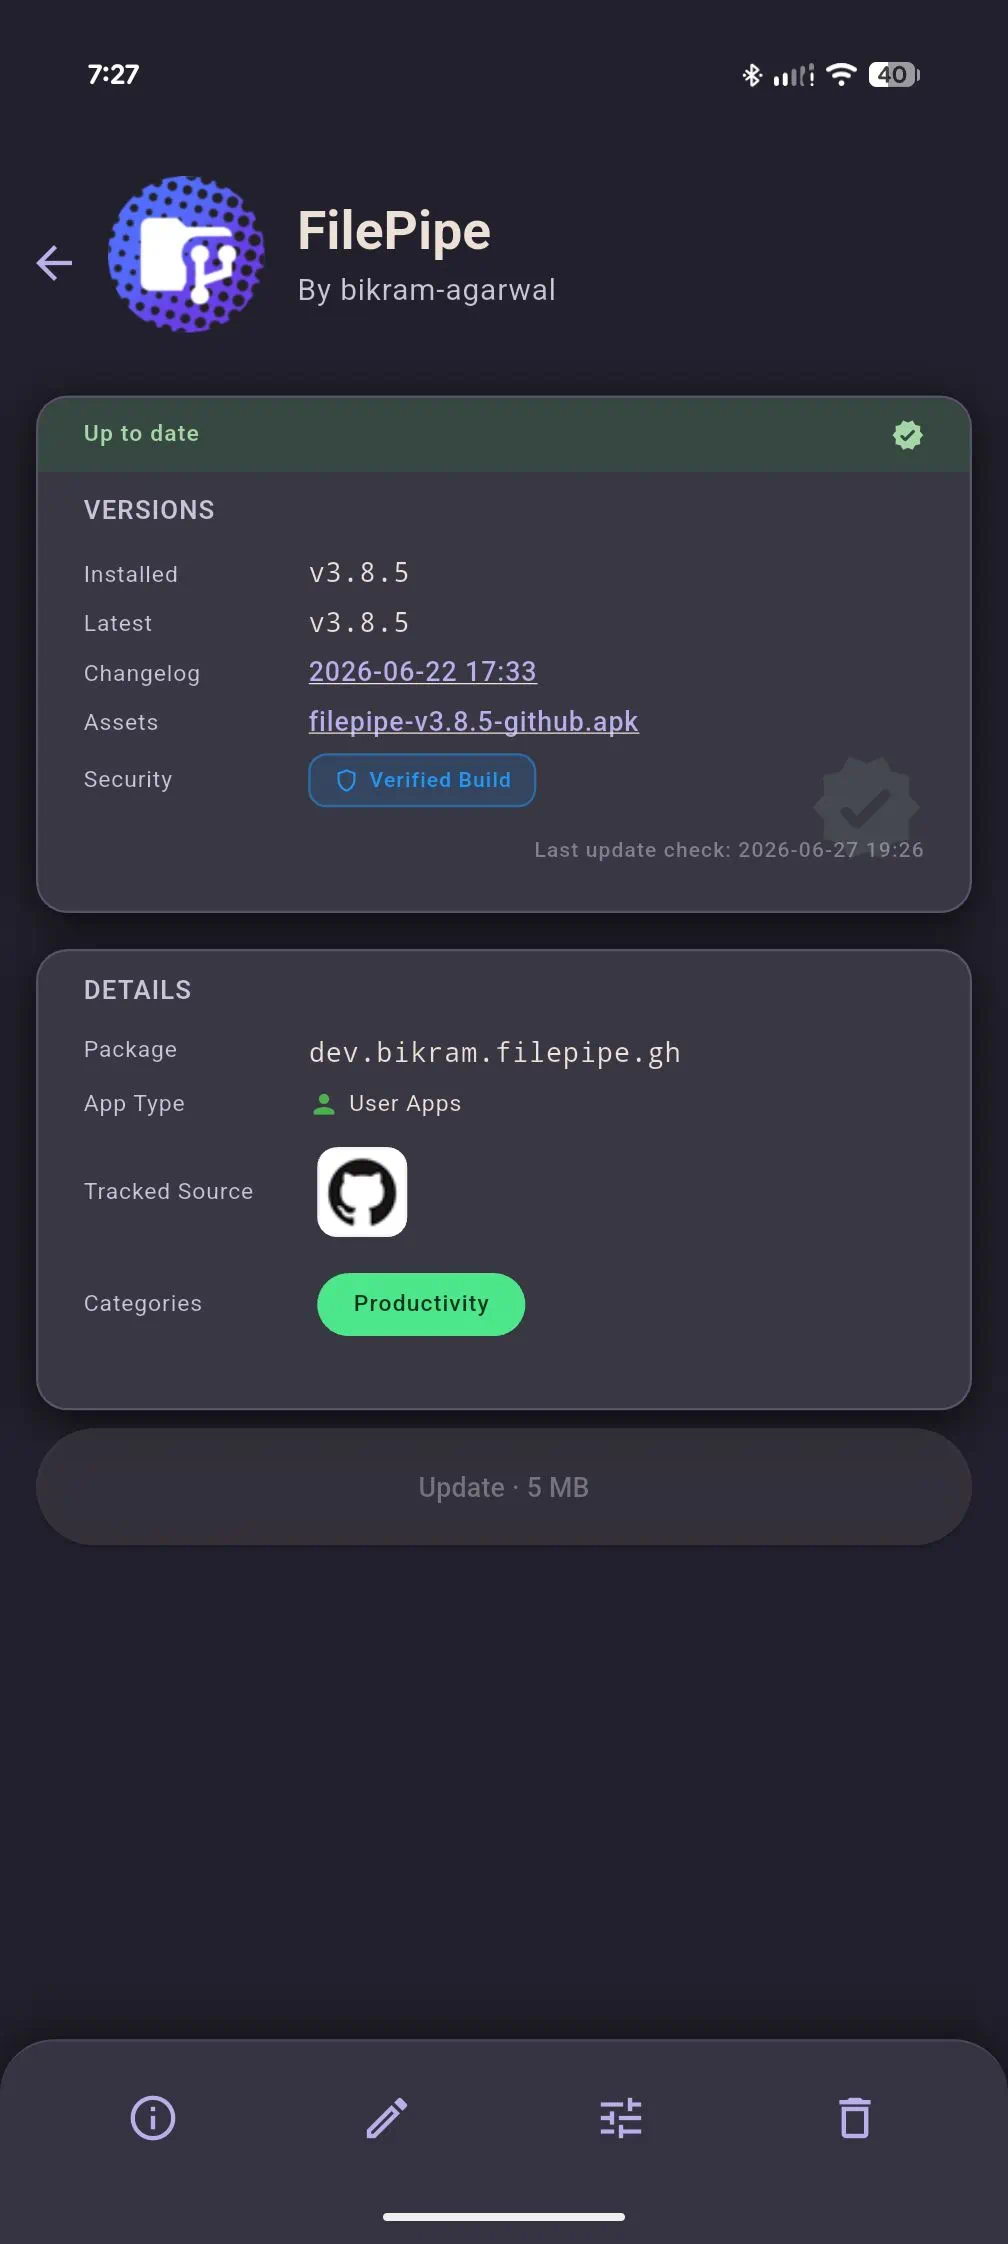
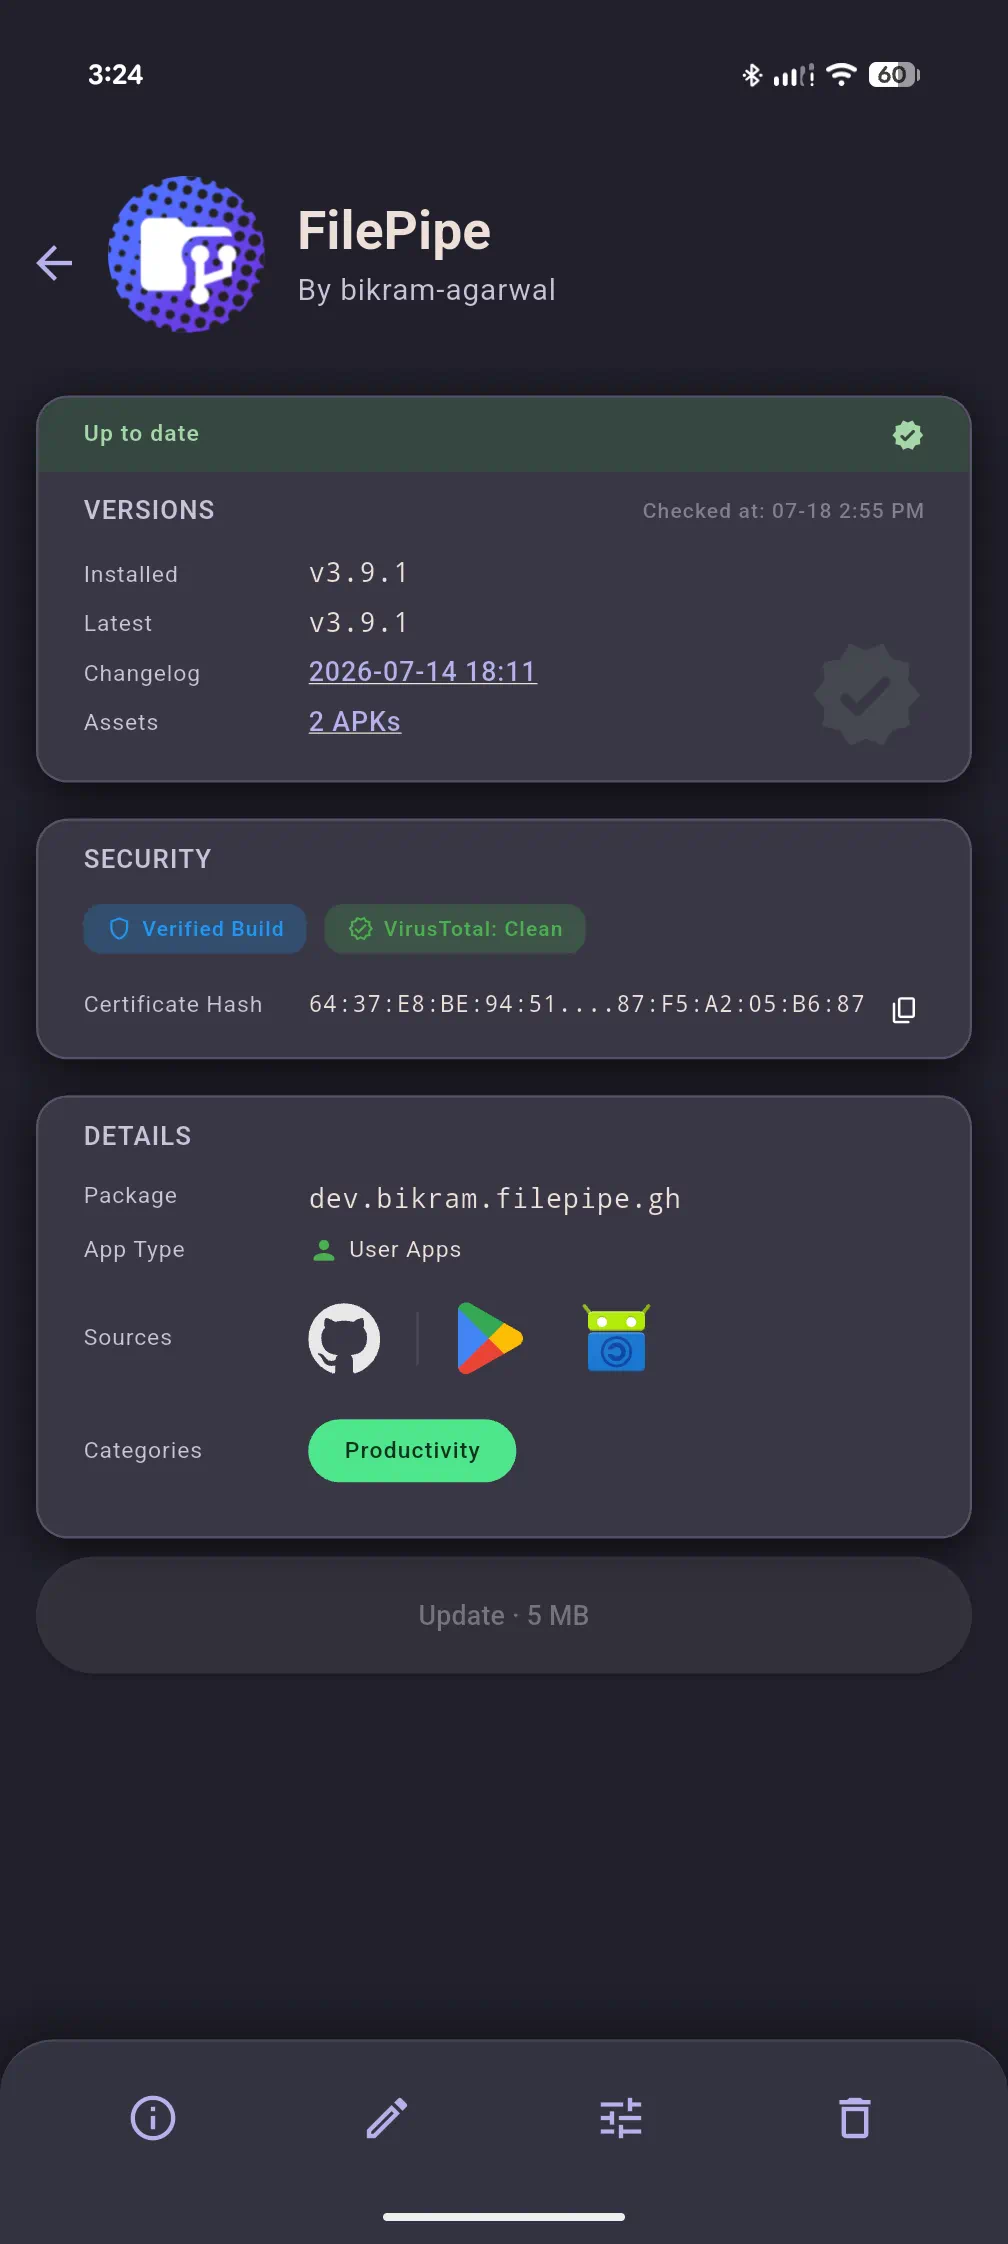
Update app visuals and layout components
- Replaced static Chip widgets with AppSmoothRoundedSurface for improved styling and interaction in CategoryActionChip.
- Enhanced app card layout in AppPage with AppSmoothRoundedSurface to support rounded corners and shadow effects.
- Show version/timestamp in tablet app rows, but in phone landscape
- Updated store and compare screenshots

diff --git a/lib/components/app_smooth_surface.dart b/lib/components/app_smooth_surface.dart
@@ -11,6 +11,8 @@ class AppSmoothRoundedSurface extends StatelessWidget {
     this.borderWidth = 1,
     this.borderRadius = 8,
     this.padding = EdgeInsets.zero,
+    this.boxShadow = const [],
+    this.clipContent = false,
     this.onTap,
     this.tooltip,
   });
@@ -21,33 +23,67 @@ class AppSmoothRoundedSurface extends StatelessWidget {
   final double borderWidth;
   final double borderRadius;
   final EdgeInsetsGeometry padding;
+  final List<BoxShadow> boxShadow;
+
+  /// Clip children to the rounded shape. Only needed when a child paints to the
+  /// edge (e.g. a full-bleed header stripe) and would otherwise poke past the
+  /// corners. Left off by default: the painted fill below already defines a
+  /// smooth corner, and a saveLayer per surface is wasteful for the common case
+  /// (chips, plain cards) — which is also where clipping hurt, see [build].
+  final bool clipContent;
   final VoidCallback? onTap;
   final String? tooltip;
 
   @override
   Widget build(BuildContext context) {
     final BorderRadius radius = BorderRadius.circular(borderRadius);
+    Widget interactive = Material(
+      type: MaterialType.transparency,
+      child: InkWell(
+        customBorder: RoundedRectangleBorder(borderRadius: radius),
+        onTap: onTap,
+        child: Padding(padding: padding, child: child),
+      ),
+    );
+    if (clipContent) {
+      // Deliberately antiAliasWithSaveLayer, NOT Clip.antiAlias: the latter
+      // clips with MSAA coverage that visibly stair-steps on curved corners at
+      // low DPR under Impeller (the jagged-corner bug). saveLayer compositing
+      // keeps the clipped corner analytically anti-aliased.
+      interactive = ClipRRect(
+        borderRadius: radius,
+        clipBehavior: Clip.antiAliasWithSaveLayer,
+        child: interactive,
+      );
+    }
+    // Fill + border are PAINTED with analytic anti-aliasing so the visible
+    // corner is smooth. (Producing the corner via a plain ClipRRect instead —
+    // as an earlier revision did — is exactly what made corners look jagged.)
+    // The fill is painted BEHIND the child and the border ON TOP of it
+    // (foregroundPainter), so a full-bleed child such as a header stripe does
+    // not paint over the border — the border still frames the whole surface.
+    final bool hasBorder =
+        borderColor != null && borderColor != Colors.transparent && borderWidth > 0;
     Widget current = CustomPaint(
-      painter: _SmoothRoundedSurfacePainter(
+      painter: _SmoothRoundedFillPainter(
         backgroundColor: backgroundColor,
-        borderColor: borderColor,
-        borderWidth: borderWidth,
         borderRadius: borderRadius,
       ),
-      child: Material(
-        type: MaterialType.transparency,
-        child: InkWell(
-          customBorder: RoundedRectangleBorder(borderRadius: radius),
-          onTap: onTap,
-          child: Padding(padding: padding, child: child),
-        ),
-      ),
+      foregroundPainter: hasBorder
+          ? _SmoothRoundedBorderPainter(
+              borderColor: borderColor!,
+              borderWidth: borderWidth,
+              borderRadius: borderRadius,
+            )
+          : null,
+      child: interactive,
     );
-    current = ClipRRect(
-      borderRadius: radius,
-      clipBehavior: Clip.antiAlias,
-      child: current,
-    );
+    if (boxShadow.isNotEmpty) {
+      current = DecoratedBox(
+        decoration: BoxDecoration(borderRadius: radius, boxShadow: boxShadow),
+        child: current,
+      );
+    }
     if (tooltip != null && tooltip!.isNotEmpty) {
       current = Tooltip(message: tooltip!, child: current);
     }
@@ -55,16 +91,47 @@ class AppSmoothRoundedSurface extends StatelessWidget {
   }
 }
 
-class _SmoothRoundedSurfacePainter extends CustomPainter {
-  const _SmoothRoundedSurfacePainter({
+class _SmoothRoundedFillPainter extends CustomPainter {
+  const _SmoothRoundedFillPainter({
     required this.backgroundColor,
+    required this.borderRadius,
+  });
+
+  final Color backgroundColor;
+  final double borderRadius;
+
+  @override
+  void paint(Canvas canvas, Size size) {
+    final double effectiveRadius = math.min(
+      borderRadius,
+      size.shortestSide / 2,
+    );
+    final RRect background = RRect.fromRectAndRadius(
+      Offset.zero & size,
+      Radius.circular(effectiveRadius),
+    );
+    final Paint fillPaint = Paint()
+      ..isAntiAlias = true
+      ..style = PaintingStyle.fill
+      ..color = backgroundColor;
+    canvas.drawRRect(background, fillPaint);
+  }
+
+  @override
+  bool shouldRepaint(covariant _SmoothRoundedFillPainter oldDelegate) {
+    return oldDelegate.backgroundColor != backgroundColor ||
+        oldDelegate.borderRadius != borderRadius;
+  }
+}
+
+class _SmoothRoundedBorderPainter extends CustomPainter {
+  const _SmoothRoundedBorderPainter({
     required this.borderColor,
     required this.borderWidth,
     required this.borderRadius,
   });
 
-  final Color backgroundColor;
-  final Color? borderColor;
+  final Color borderColor;
   final double borderWidth;
   final double borderRadius;
 
@@ -74,21 +141,6 @@ class _SmoothRoundedSurfacePainter extends CustomPainter {
       borderRadius,
       size.shortestSide / 2,
     );
-    final Radius radius = Radius.circular(effectiveRadius);
-    final RRect background = RRect.fromRectAndRadius(
-      Offset.zero & size,
-      radius,
-    );
-    final Paint fillPaint = Paint()
-      ..isAntiAlias = true
-      ..style = PaintingStyle.fill
-      ..color = backgroundColor;
-    canvas.drawRRect(background, fillPaint);
-
-    final Color? strokeColor = borderColor;
-    if (strokeColor == null || borderWidth <= 0) {
-      return;
-    }
     final double inset = borderWidth / 2;
     final RRect border = RRect.fromRectAndRadius(
       Rect.fromLTWH(
@@ -103,14 +155,13 @@ class _SmoothRoundedSurfacePainter extends CustomPainter {
       ..isAntiAlias = true
       ..style = PaintingStyle.stroke
       ..strokeWidth = borderWidth
-      ..color = strokeColor;
+      ..color = borderColor;
     canvas.drawRRect(border, borderPaint);
   }
 
   @override
-  bool shouldRepaint(covariant _SmoothRoundedSurfacePainter oldDelegate) {
-    return oldDelegate.backgroundColor != backgroundColor ||
-        oldDelegate.borderColor != borderColor ||
+  bool shouldRepaint(covariant _SmoothRoundedBorderPainter oldDelegate) {
+    return oldDelegate.borderColor != borderColor ||
         oldDelegate.borderWidth != borderWidth ||
         oldDelegate.borderRadius != borderRadius;
   }

diff --git a/lib/components/category_action_chip.dart b/lib/components/category_action_chip.dart
@@ -1,6 +1,7 @@
 import 'dart:math' as math;
 
 import 'package:flutter/material.dart';
+import 'package:obtainium/components/app_smooth_surface.dart';
 
 enum CategoryActionChipState {
   selected,
@@ -149,40 +150,35 @@ class CategoryActionChip extends StatelessWidget {
 
     return Padding(
       padding: outerPadding,
-      child: onPressed == null
-          ? Chip(
-              avatar: avatar,
-              label: Text(
-                label,
-                style: theme.textTheme.labelMedium?.copyWith(
-                  color: foregroundColor,
-                  decoration: decoration,
-                  fontWeight: fontWeight,
-                ),
+      child: AppSmoothRoundedSurface(
+        backgroundColor: containerColor,
+        borderColor: borderSide.style == BorderStyle.none
+            ? null
+            : borderSide.color,
+        borderWidth: borderSide.width,
+        borderRadius: 999,
+        padding: EdgeInsetsDirectional.fromSTEB(
+          avatar == null ? 12 : 9,
+          6,
+          12,
+          6,
+        ),
+        onTap: onPressed,
+        child: Row(
+          mainAxisSize: MainAxisSize.min,
+          children: [
+            if (avatar != null) ...[avatar, const SizedBox(width: 6)],
+            Text(
+              label,
+              style: theme.textTheme.labelMedium?.copyWith(
+                color: foregroundColor,
+                decoration: decoration,
+                fontWeight: fontWeight,
               ),
-              backgroundColor: containerColor,
-              shape: const StadiumBorder(),
-              side: borderSide,
-              visualDensity: VisualDensity.compact,
-              materialTapTargetSize: MaterialTapTargetSize.shrinkWrap,
-            )
-          : RawChip(
-              onPressed: onPressed,
-              avatar: avatar,
-              label: Text(
-                label,
-                style: theme.textTheme.labelMedium?.copyWith(
-                  color: foregroundColor,
-                  decoration: decoration,
-                  fontWeight: fontWeight,
-                ),
-              ),
-              backgroundColor: containerColor,
-              shape: const StadiumBorder(),
-              side: borderSide,
-              visualDensity: VisualDensity.compact,
-              materialTapTargetSize: MaterialTapTargetSize.shrinkWrap,
             ),
+          ],
+        ),
+      ),
     );
   }
 }

diff --git a/lib/pages/app.dart b/lib/pages/app.dart
@@ -1173,6 +1173,10 @@ class _AppPageState extends State<AppPage> with WidgetsBindingObserver {
     final BoxDecoration decoration = sectionBackgroundColor != null
         ? baseDecoration.copyWith(color: sectionBackgroundColor)
         : baseDecoration;
+    final BorderRadius cardBorderRadius =
+        decoration.borderRadius?.resolve(Directionality.of(ctx)) ??
+        BorderRadius.zero;
+    final BorderSide cardBorderSide = (decoration.border! as Border).top;
 
     final Widget bodyColumn = Column(
       crossAxisAlignment: CrossAxisAlignment.stretch,
@@ -1224,19 +1228,27 @@ class _AppPageState extends State<AppPage> with WidgetsBindingObserver {
           : bodyColumn,
     );
 
-    return Container(
-      margin: const EdgeInsets.symmetric(horizontal: 16, vertical: 8),
-      decoration: decoration,
-      clipBehavior: (headerStripe != null || cardWatermark != null)
-          ? Clip.antiAlias
-          : Clip.none,
-      child: headerStripe != null
-          ? Column(
-              crossAxisAlignment: CrossAxisAlignment.stretch,
-              mainAxisSize: MainAxisSize.min,
-              children: [headerStripe, body],
-            )
-          : body,
+    return Padding(
+      padding: const EdgeInsets.symmetric(horizontal: 16, vertical: 8),
+      child: AppSmoothRoundedSurface(
+        backgroundColor: decoration.color ?? Colors.transparent,
+        borderColor: cardBorderSide.color,
+        borderWidth: cardBorderSide.width,
+        borderRadius: cardBorderRadius.topLeft.x,
+        boxShadow: decoration.boxShadow ?? const [],
+        // Only these cards have a child that paints to the edge (the header
+        // stripe / corner watermark), so only they need the content clipped to
+        // the rounded corners; plain cards keep the smooth painted corner
+        // without a saveLayer.
+        clipContent: headerStripe != null || cardWatermark != null,
+        child: headerStripe != null
+            ? Column(
+                crossAxisAlignment: CrossAxisAlignment.stretch,
+                mainAxisSize: MainAxisSize.min,
+                children: [headerStripe, body],
+              )
+            : body,
+      ),
     );
   }
 

diff --git a/lib/pages/apps.dart b/lib/pages/apps.dart
@@ -815,14 +815,15 @@ class _AppListItem extends StatelessWidget {
 
     final theme = Theme.of(context);
     final colorScheme = theme.colorScheme;
-    final double screenWidth = MediaQuery.sizeOf(context).width;
+    final Size screenSize = MediaQuery.sizeOf(context);
+    final double screenWidth = screenSize.width;
     final bool isLargeScreen =
         screenWidth >= kLargeScreenWidthBreakpoint &&
         !context.read<SettingsProvider>().isTV &&
         !context.read<SettingsProvider>().alwaysUsePhoneLayout;
     final bool hideVersionAndChangelog =
-        isLargeScreen ||
-        MediaQuery.orientationOf(context) == Orientation.landscape;
+        MediaQuery.orientationOf(context) == Orientation.landscape &&
+        screenSize.shortestSide < kTabletShortestSideBreakpoint;
 
     final showChangesFn = getChangeLogFn(context, app.app);
     final installed = app.app.installedVersion;
@@ -2763,6 +2764,8 @@ class AppsPageState extends State<AppsPage> {
     return InputChip(
       label: Text(label, style: const TextStyle(fontSize: 12)),
       onDeleted: onDelete,
+      shape: const StadiumBorder(),
+      clipBehavior: Clip.antiAlias,
       materialTapTargetSize: MaterialTapTargetSize.shrinkWrap,
       visualDensity: VisualDensity.compact,
       padding: const EdgeInsets.symmetric(horizontal: 2),
@@ -4116,9 +4119,6 @@ class AppsPageState extends State<AppsPage> {
                         top: tileIndex == 0
                             ? kM3eHeaderToFirstCardGap
                             : kM3eItemGap,
-                        bottom: tileIndex == matchingIndices.length - 1
-                            ? SettingsProvider.collapsedHeaderGap
-                            : 0,
                       ),
                       child: getSingleAppHorizTile(
                         matchingIndices[tileIndex],

diff --git a/lib/layout_breakpoints.dart b/lib/layout_breakpoints.dart
@@ -8,6 +8,10 @@ const double kLargeScreenWidthBreakpoint = 720;
 /// In landscape, large-screen layouts kick in at this lower width.
 const double kLargeScreenLandscapeWidthBreakpoint = 600;
 
+/// Shortest-side boundary used when behavior must distinguish a phone from a
+/// tablet independently of the current orientation.
+const double kTabletShortestSideBreakpoint = 600;
+
 /// Large-screen when wide enough in portrait, or somewhat narrower in landscape.
 ///
 /// Used by the add-app and bulk-add pages, which intentionally opt into the
